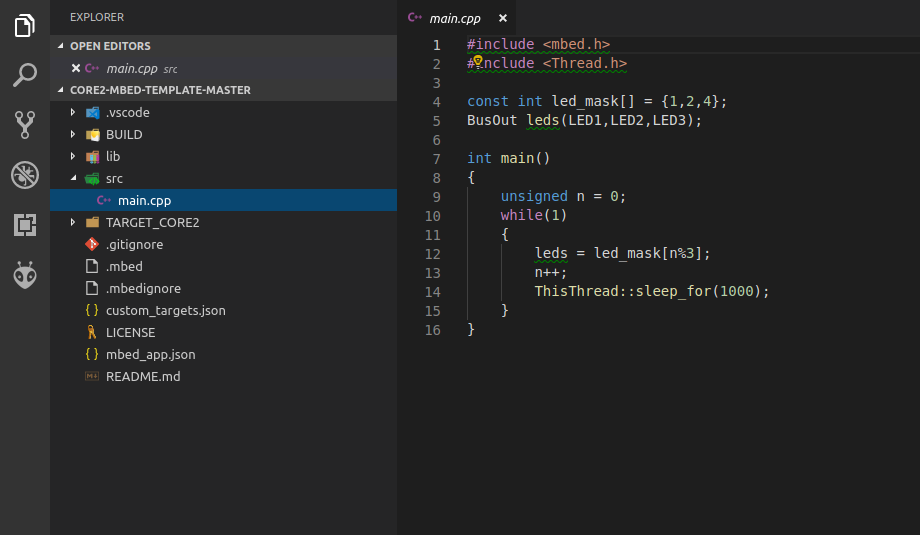
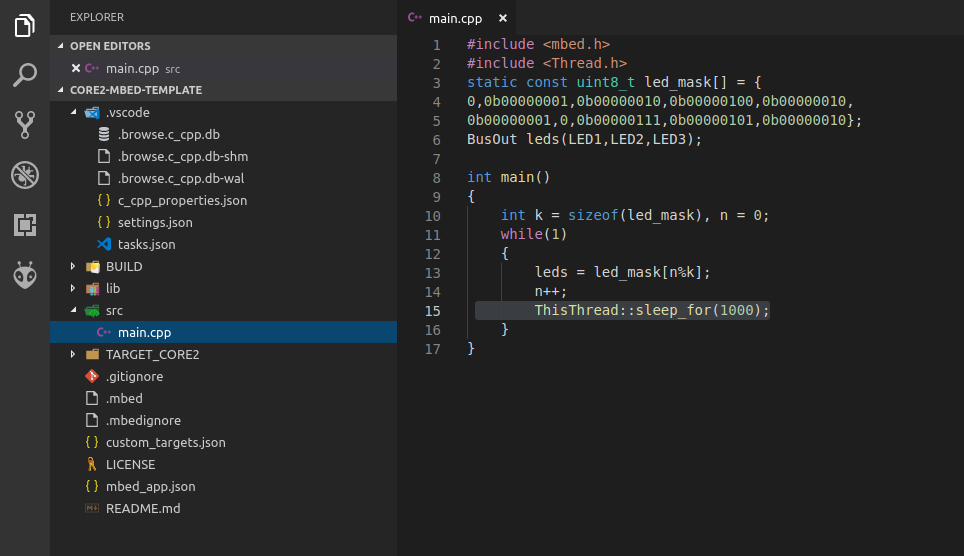
section template finished

diff --git a/core2/tutorials/other-tutorials/using-core2-with-mbed-os.md b/core2/tutorials/other-tutorials/using-core2-with-mbed-os.md
@@ -17,16 +17,21 @@ order: 5
 
 **Mbed OS** is free, open-source platform and embedded operating system designed for IoT devices based on Arm Cortex-M family of microcontrollers. It is developed as collaborative project by *Arm*, its partners and growing community of individual devs from across the world. Mbed OS is distributed under the [Apache-2.0 License](https://en.wikipedia.org/wiki/Apache_License) and it's available on project's GitHub page : https://github.com/ARMmbed/mbed-os.
 
-Besides support for variety of boards from different manufacturers the framework has the following features:
+Besides support for variety of boards from different manufacturers the framework has features like:
 * built-in support for connectivity options like *Bluetooth LE*, *Wi-Fi*, *Ethernet*, *Cellular*, *LoRa LPWAN*, *NFC* and others,
 * RTOS core based on open-source *CMSIS-RTOS RTX* (it is also possible to build projects without it),
-* *Hardware Enforced Security* and *Communications Security*.
+* *Hardware Enforced Security* and *Communications Security*,
+* easy and portable API.
 
 You can learn more about Mbed OS on its [official webpage](https://www.mbed.com/en/platform/mbed-os/).
 
+Useful links:
+* [Mbed OS documentation](https://os.mbed.com/docs/v5.10/)
+* [Mbed OS Doxygen API](https://os.mbed.com/docs/v5.10/mbed-os-api-doxy/modules.html)
+
 ## CORE2 and Mbed OS
 
-In this tutorial we will show you how to build, compile and run mbed applications on CORE2 using mbed offline tools. You will be introduced to mbed API, learn how to use rosserial library to connect your mbed application with SBC and more. Let's hack ;-)
+In this tutorial we will show you how to build, compile and run mbed applications on CORE2 using mbed offline tools. You will be introduced to basics of mbed API, learn how to use rosserial library to connect your mbed application with SBC and more. Let's hack!
 
 ### Prerequisites
 
@@ -161,13 +166,76 @@ You can also clone the repo using GIT:
     $ git clone https://github.com/byq77/core2-mbed-template.git
 ```
 
-Open `core2-mbed-template-master` directory in Visual Studio Code. You should see:
+Open `core2-mbed-template-master` directory in Visual Studio Code. In file `setting.json` from directory `.vscode` change the value of `C_cpp.default.compilerPath` to match location of `arm-none-eabi-gcc` on your system:
+
+<div>
+<center><img src="./../../../assets/img/mbed-tutorials/mbed-tutorial-img2.png" width="800px" alt=""/></center>
+</div> 
+
+It will enable more accurate IntelliSense feature in editor.
+
+#### Template files
+
+Open the template directory and select `src/main.cpp`. You should see:
 
 <div>
 <center><img src="./../../../assets/img/mbed-tutorials/mbed-tutorial-img1.png" width="800px" alt=""/></center>
-</div>
+</div> 
 
-## Rosserial project
+As you no doubt have guessed this simple code just lights up three on-board leds in some sequence. We instantiate `BusOut` object that allows to control multiple digital pins at the same time. It's used to blink leds in order described by `leds_mask` array at the interval introduced by function `ThisThread::sleep_for(1000)`.    
+
+Let's explore other important files of template project. Open file `custom_target.json`:
+
+<div>
+<center><img src="./../../../assets/img/mbed-tutorials/mbed-tutorial-img3.png" width="800px" alt=""/></center>
+</div> 
+
+Mbed OS Configuration system use this file to define user's custom targets. Since CORE2 is not officially supported by Mbed OS `custom_target.json` and files from `TARGET_CORE2` are used to describe our board. You can learn more about configuration system [here](https://os.mbed.com/docs/v5.10/reference/configuration.html).
+
+In folder `TARGET_CORE2` you can find files `PinNames.h` and `PeripheralPins.c`. First defines pin names of mcu and the latter declares all peripherals that can be used on those pins.
+
+Another file that is used by Mbed OS configuration system is `mbed_app.json`. Open it.
+
+<div>
+<center><img src="./../../../assets/img/mbed-tutorials/mbed-tutorial-img4.png" width="800px" alt=""/></center>
+</div> 
+
+In this file you can override default settings for application, define new configuration entries and create custom macros. In presented configuration :
+* line `10` enables spawning a new thread for shared event queue, 
+* lines `11` and `12` set default baudrate to 115200,
+* line `13` shifts the start of firmware in flash so it doesn't override bootloader.   
+
+You can learn details of each settings from documentation.
+
+The last important file you should be aware of is `task.json` from `.vscode` directory. It defines tasks that are recognized by Visual Studio Code IDE. They can be accessed by pressing `CTRL + SHIFT + P` and typing `Task: Run Task` in Command Pallete.
+
+<div>
+<center><img src="./../../../assets/img/mbed-tutorials/mbed-tutorial-img5.png" width="800px" alt=""/></center>
+</div> 
+
+Both Mbed OS and VS Code configuration use simple JSON syntax. 
+
+#### Building and flashing firmware
+
+Press `CTRL + SHIFT + B`. It will run `CLEAN BUILD (RELEASE)` task. Wait until compilation finishes.
+
+<div>
+<center><img src="./../../../assets/img/mbed-tutorials/mbed-tutorial-img6.png" width="800px" alt=""/></center>
+</div> 
+
+Connect your ST-LINK programmer to debug pins of CORE2 and make sure it's connected to your computer. Press `CTRL + SHIFT + P` and in Command Pallete type `Task: Run Task`. Select `FLASH FIRMWARE (RELEASE)`. You should get:
+
+<div>
+<center><img src="./../../../assets/img/mbed-tutorials/mbed-tutorial-img7.png" width="800px" alt=""/></center>
+</div> 
+
+Leds on your board should start blinking accordingly. Congratulations! You've just build and flashed your first Mbed application for CORE2!
+
+> **Additional Task**
+> 
+> Modify the program so as the on-board leds blink in Gray code. Add [Serial](https://os.mbed.com/docs/v5.10/apis/serial.html) to print current sequence to the stdout at the same time.  
+
+## Rosserial library
 
 ## Summary
 
